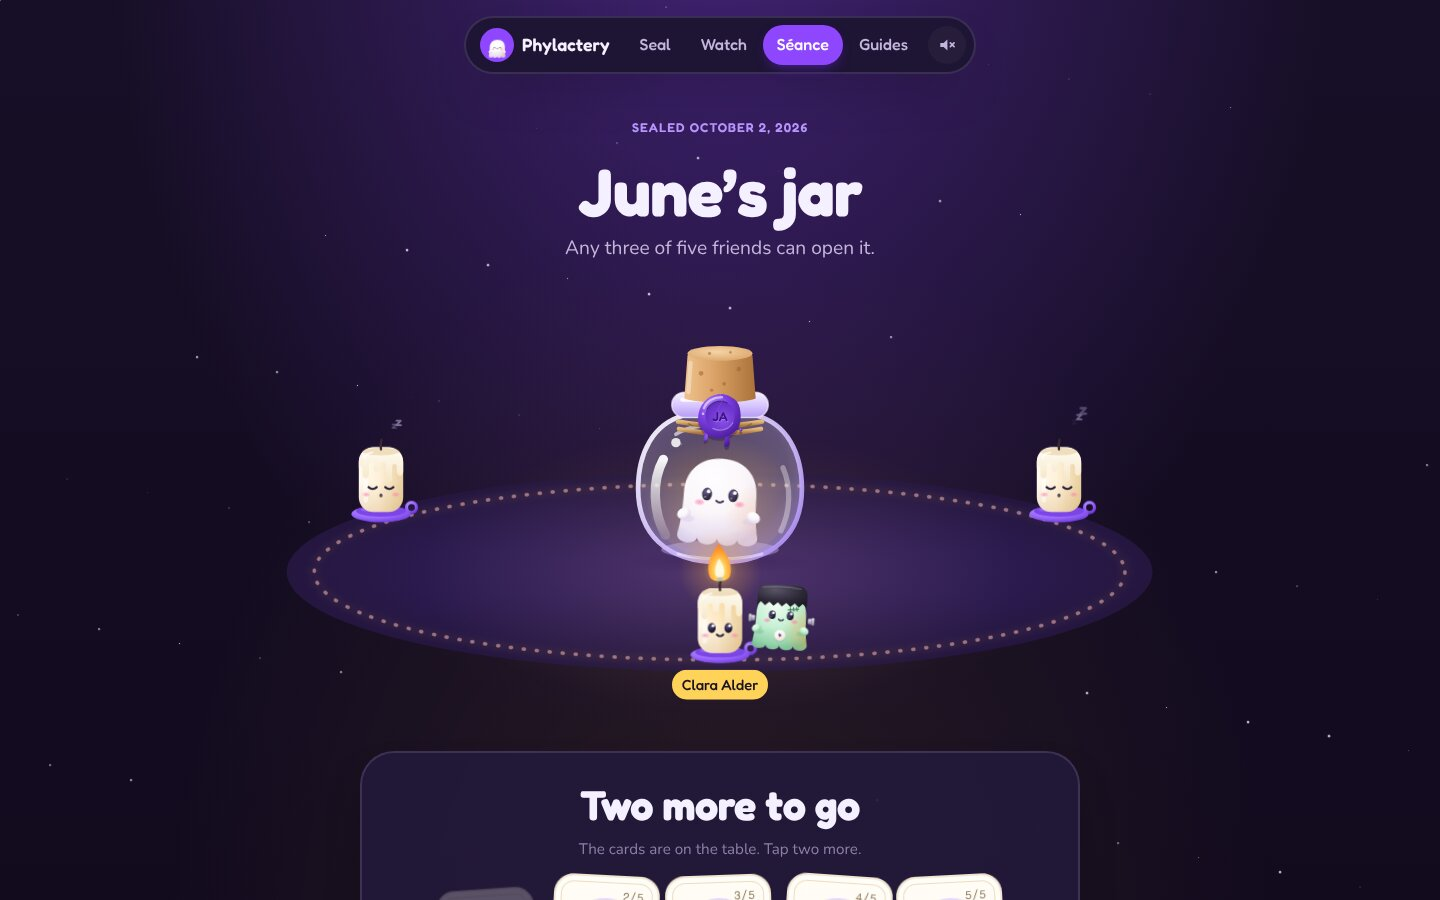
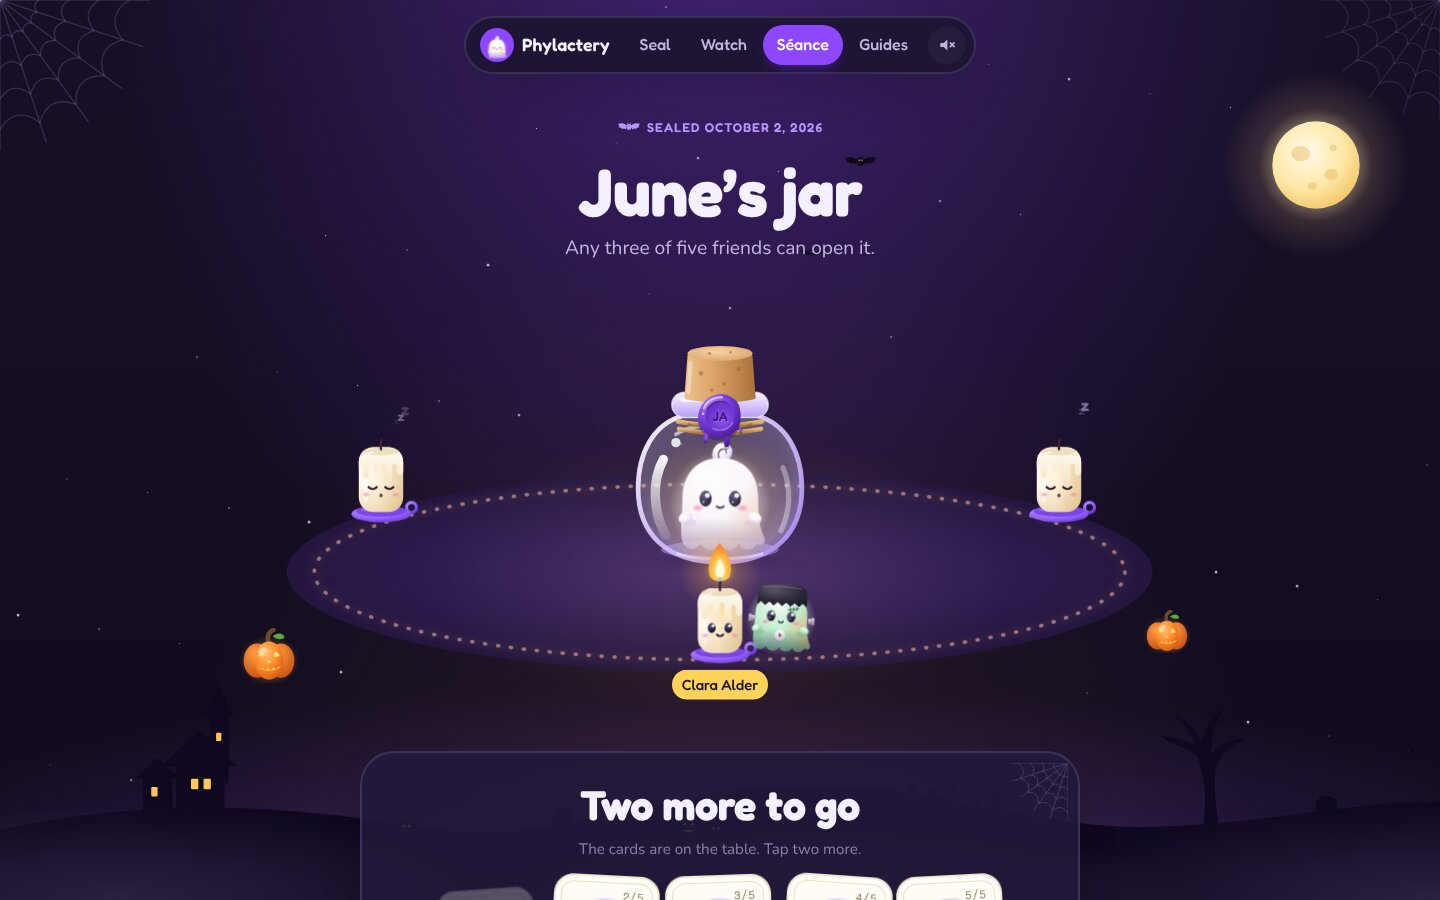
README and design rules for the Halloween world; fresh screenshots

diff --git a/README.md b/README.md
@@ -32,7 +32,7 @@ Phylactery joins the pieces, and makes a heavy subject gentle: death as a reunio
 
 ## The costume
 
-Kiroween purple and a cast of little ghosts drawn as SVG, shaded like soft vinyl toys. The rules are short: one character, one headline and one action per screen; the Halloween lives in the cast (eight costumes, one per friend), the candles, the jar and the night, never in props added for decoration. Every spooky element does a job:
+Kiroween purple and a cast of little ghosts drawn as SVG, shaded like soft vinyl toys: a sheet ghost with its curl, Frankenstein, a hooded skeleton, a pumpkin, a witch, a bat, a vampire and a mummy, one per friend. Around them is a Halloween world, drawn in the same soft style: by day a lilac afternoon with cobwebs in the corners, a spider on its thread, a faint wallpaper of bats, moons and pumpkins, and a hill with an old house far away; at night the moon, fog and lit windows. Bats cross the sky now and then. Labels fly a bat, primary buttons drip like wax, cards carry a cobweb, the seal steps are a row of jack-o'-lanterns that light as you go, and checklists light pumpkins. One headline and one action per screen still hold, and every spooky element that sits on the content does a job:
 
 ![The cast](docs/screenshots/cast.jpg)
 
@@ -43,10 +43,11 @@ Kiroween purple and a cast of little ghosts drawn as SVG, shaded like soft vinyl
 | The ghost in the jar | Awake while you write; asleep once corked and sealed; stirring as candles light; out and happy when open, with your words flying out as little notes |
 | The ring on the rug | Warms to amber as the circle gathers |
 | The wax seal | Pressed when the jar is encrypted, cracked when it opens |
-| The watch ghost's face | The watch state: happy, asking, worried, or holding up a sign for your friends |
+| The watch ghost's face | The watch state: happy, asking, worried, or holding up a sign for your friends. It carries a lantern, and grows faint while a hello goes unanswered |
+| Jack-o'-lanterns | Progress: each step of sealing lights one; each guide you've done lights one; each reminder on the watch's timeline is one |
 | Day and night | A starry night when you arrive; lilac paper while you write and keep watch; night falls when you seal, and again when friends gather. It falls from the top of the screen and lifts the same way |
 
-Motion marks a change of state, and is springy and small: night falls and a candle wakes, the cork drops in and the wax is stamped, a tapped card glows and its ghost flies to a candle, the candle wakes, the seal cracks and the cork spins away, envelopes open and letters slide out. Only the ghost in focus and lit flames move on their own. All sounds (a match, a flame, wax pressed and cracking, a bell) are synthesised live with the Web Audio API; there are no audio files, and sound is off until you turn it on. With *reduce motion* set, every state is kept and the movement is dropped. Printed cards are black-and-white line art.
+Motion marks a change of state, and is springy and small: night falls and a candle wakes, the cork drops in and the wax is stamped, a tapped card glows and its ghost flies to a candle, the candle wakes, the seal cracks, the cork spins away and the bats sleeping in the jar fly out, envelopes open and letters slide out. Besides the ghost in focus and lit flames, only the scenery moves on its own: a passing bat, the spider, the fog. All sounds (a match, a flame, wax pressed and cracking, a bell) are synthesised live with the Web Audio API; there are no audio files, and sound is off until you turn it on. With *reduce motion* set, every state is kept and the movement is dropped. Printed cards are black-and-white line art.
 
 ## Three promises
 

diff --git a/.kiro/steering/design.md b/.kiro/steering/design.md
@@ -10,16 +10,17 @@ The costume is cute, soft and simple: Kiroween purple and a cast of chibi ghosts
 ## Rules
 
 1. One character, one headline, one main action per screen. A headline, then one sentence.
-2. Halloween lives in the cast (eight costumes, one per friend), the candles, the jar, the wax seal and the night. No props that are only decoration (no bats, webs, moons, candy, lanterns).
+2. Halloween is on every surface, in the same soft style as the cast: the cast (eight costumes, one per friend), the candles, the jar and the wax seal; behind every page the scenery (`<Scenery/>`: cobwebs, a spider, the hill with the old house, passing bats; at night the moon, fog and lit windows); and the details (a bat on every `.tag`, dripping primary buttons, a cobweb on every `.card`, jack-o'-lanterns for progress). Decoration stays behind or beside the words, never on them, and is `aria-hidden`.
 3. Every spooky element does a job: candles = progress; the wax seal = locked/opened; the ghost in the jar = the jar's state; a card's buddy = that card's fingerprint; the watch ghost's face = the watch state; day/night = writing vs gathering.
-4. Motion marks a change of state. Only the ghost in focus (float, blink) and lit flames move on their own. Everything respects `prefers-reduced-motion` (state kept, movement dropped).
+4. Motion marks a change of state. Only the ghost in focus (float, blink), lit flames and the scenery (a passing bat, the spider, the fog) move on their own. Everything respects `prefers-reduced-motion` (state kept, movement dropped).
 5. Color: purple, ink, lilac and night are the base. Amber means light (candles, progress). Mint, yellow and pink only mean status. Text meets WCAG AA (the e2e axe audit enforces it).
 
 ## Tokens and parts
 
 - Colors in `src/ui/styles.css` `:root`: `--purple #8e47ff`, `--purple-text #7a35e8` for small text, `--purple-press`, `--lilac`, `--ink`, `--night`, `--sun`, `--mint`, `--pink`. Themes via `[data-theme='day'|'night']`.
 - Easing: `--spring` for things that land, `--soft` for fades. Durations: button press ~120 ms, hover/card 450 ms spring, nav pill and page change 520 ms, chip pop 700 ms, day↔night 900 ms.
-- The cast: `<Ghost costume mood emblem size float phase tilt rim line/>` (moods: open, curious, happy, sleep, wow, worried, sad, wink; `line` = print line art), `<Candle lit justLit/>`, `<Jar state wax corked notes/>`, `<WaxSeal state/>`. Reuse these; do not draw new one-off art.
+- The cast: `<Ghost costume mood emblem size float phase tilt rim line/>` (costumes: sheet, franken, skeleton, pumpkin, witch, bat, vampire, mummy; moods: open, curious, happy, sleep, wow, worried, sad, wink; `line` = print line art), `<Candle lit justLit/>`, `<Jar state wax corked notes/>`, `<WaxSeal state/>`.
+- The Halloween kit in `src/ui/art/Spooky.tsx`: `<Pumpkin lit face line/>`, `<Bat flap/>`, `<Moon/>`, `<Cobweb corner/>`, `<Spider/>`, `<Skyline night/>`, `<Lantern lit/>`, `<Scenery/>`. Reuse these; do not draw new one-off art.
 - Buttons are pills with a darker bottom edge (`.btn`, `.btn.primary`); cards are `.card`; status is `.status-pill`.
 
 ## Copy
